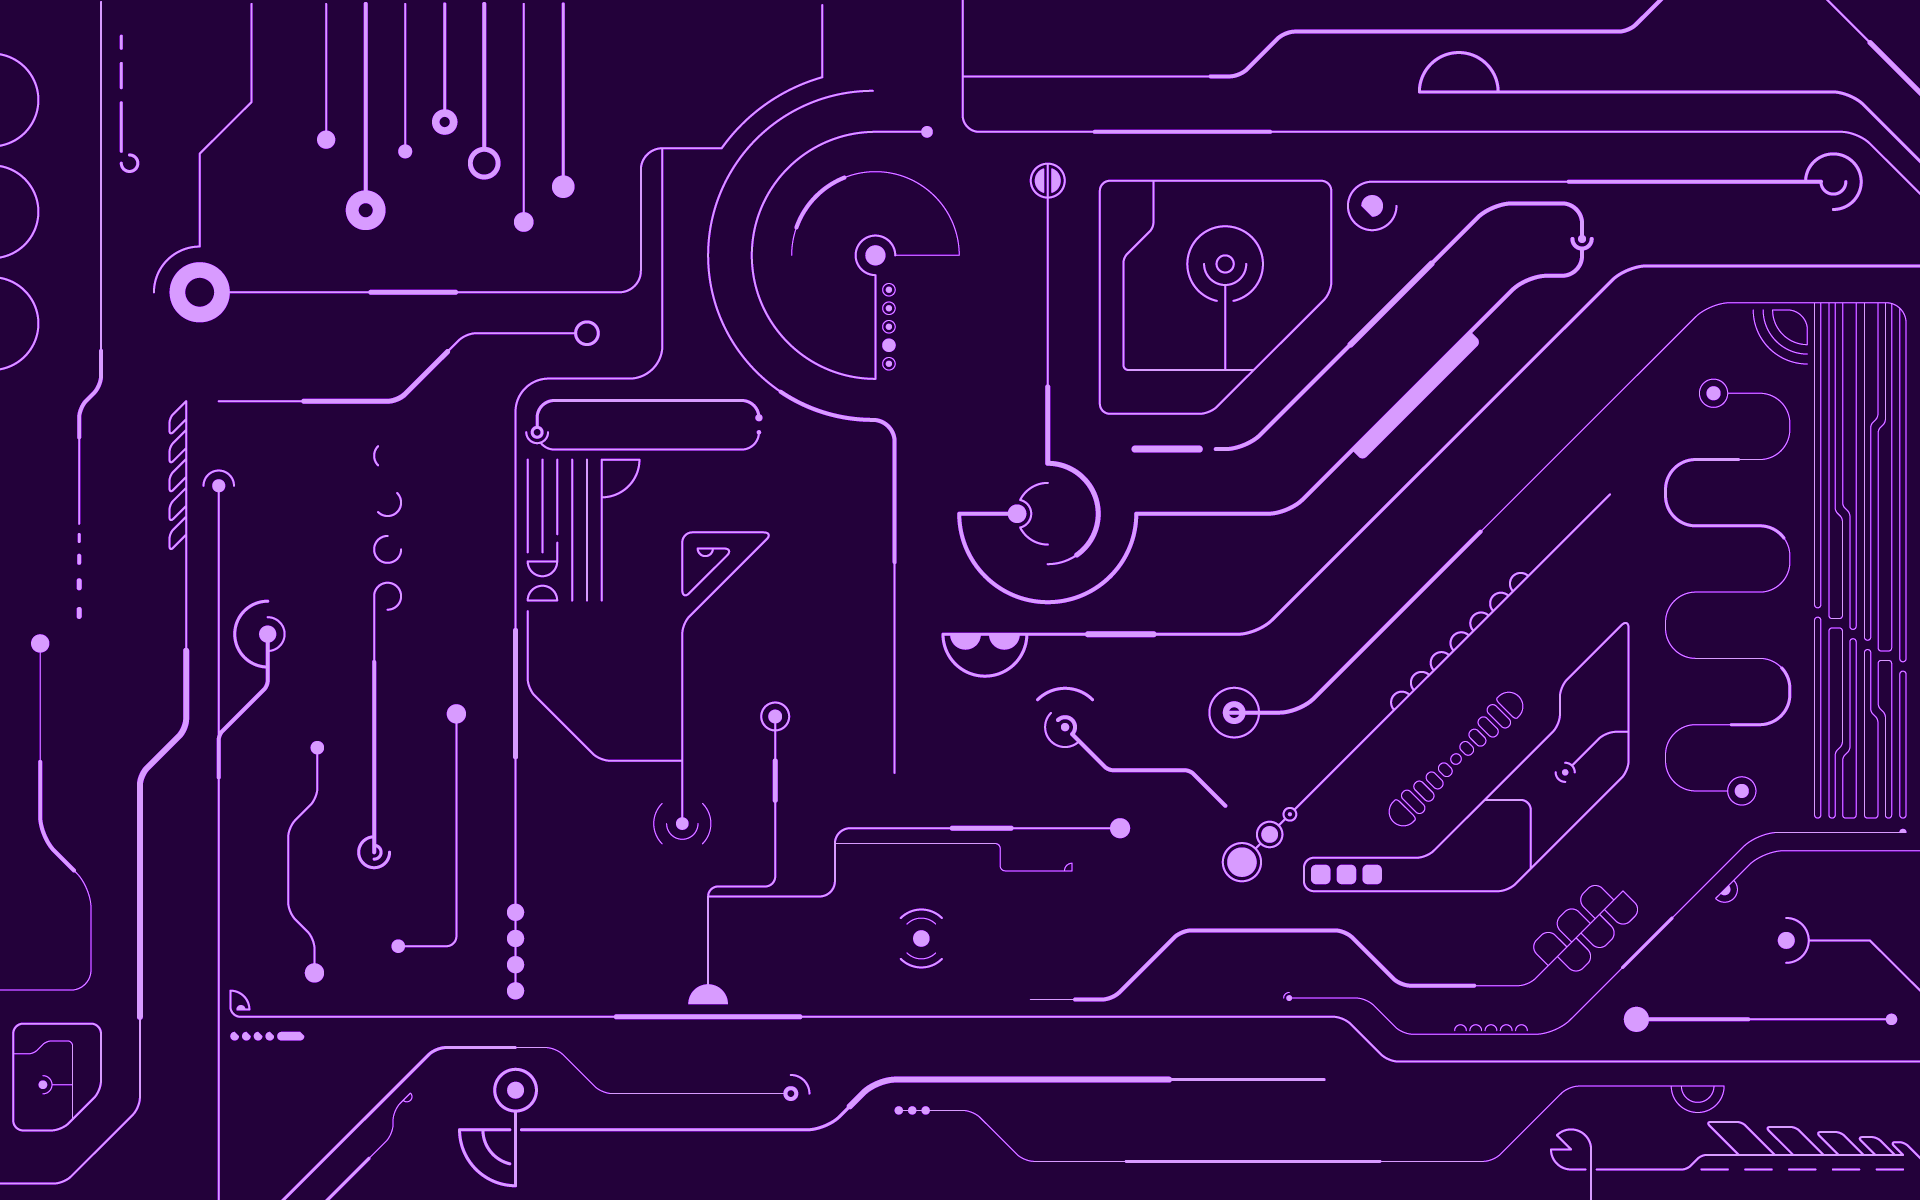
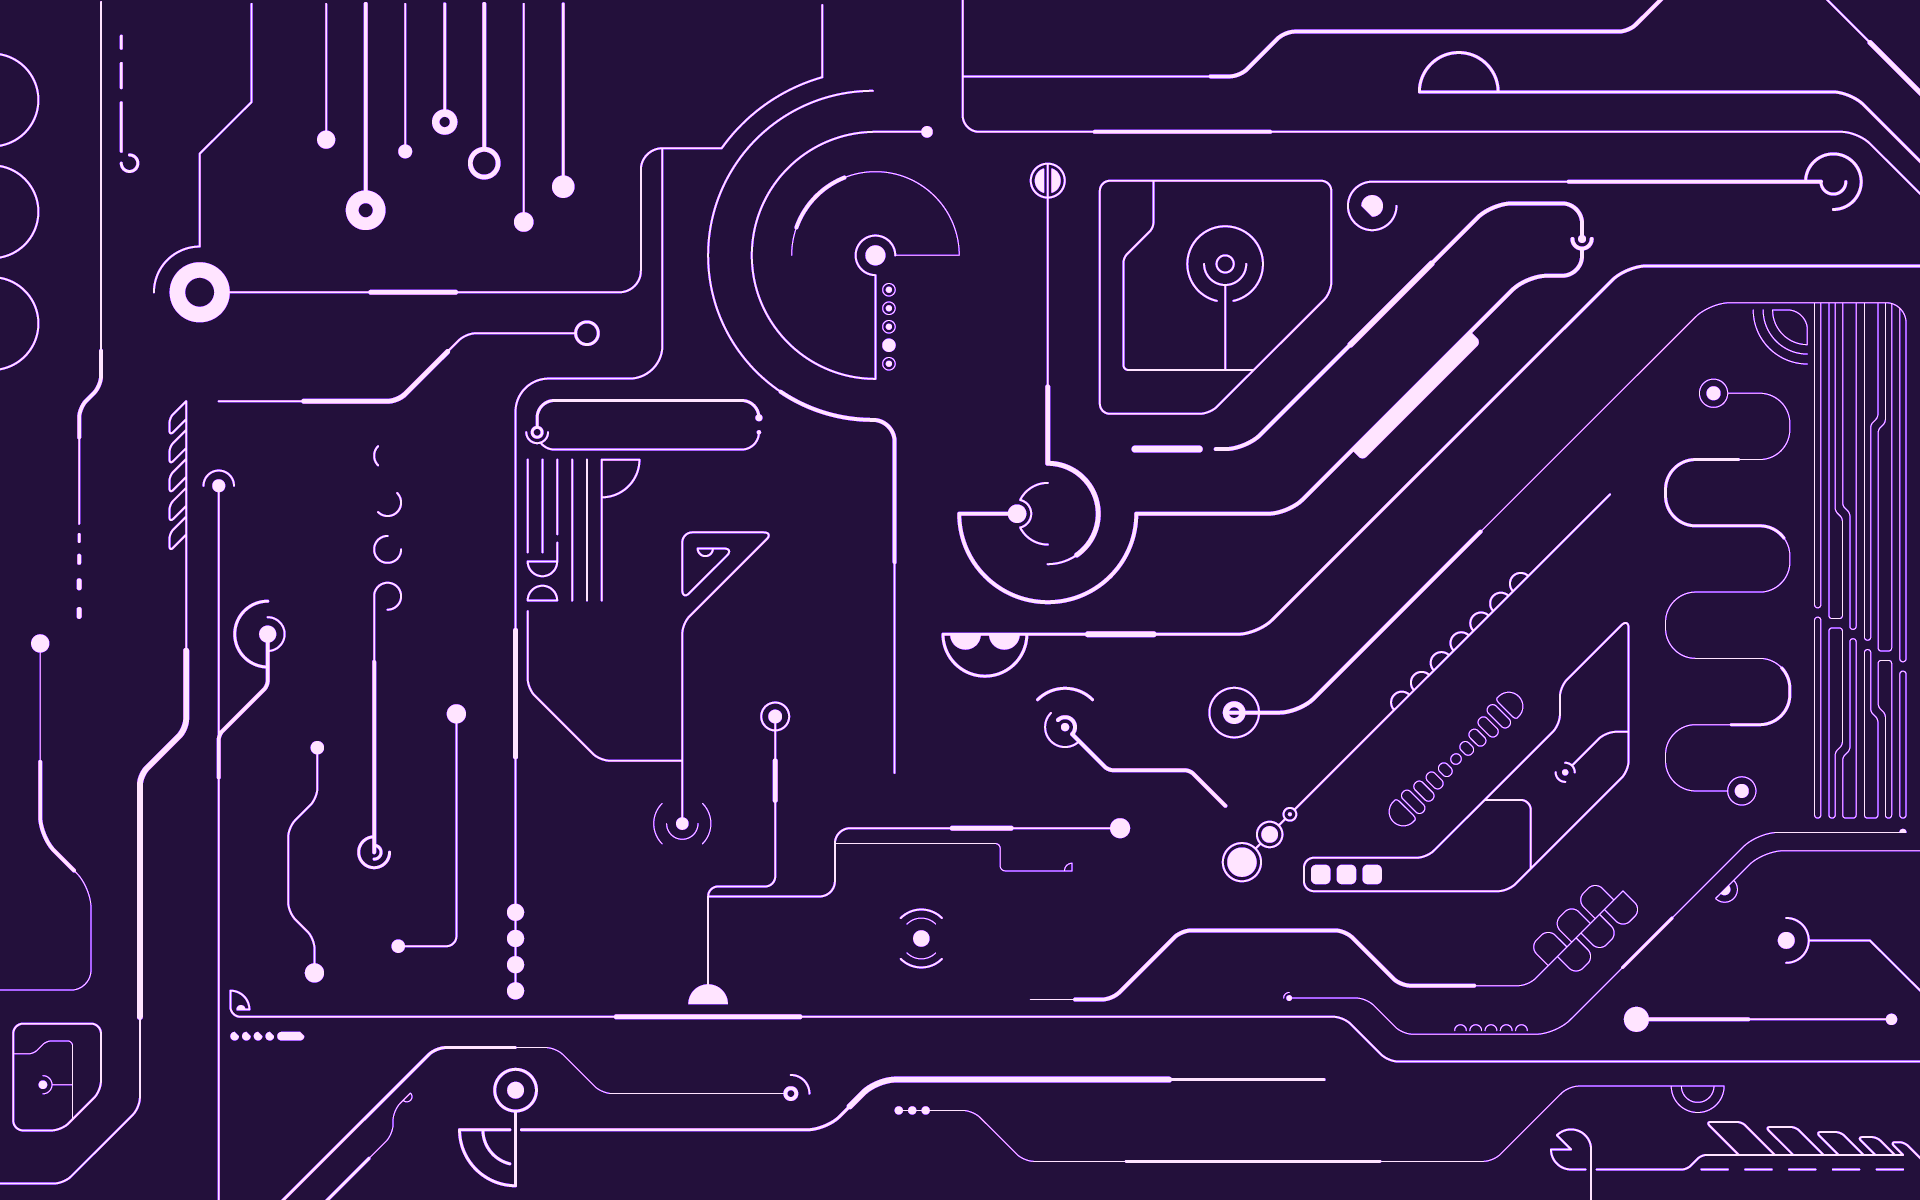
added club events section and updated swe page

diff --git a/src/components/Home.jsx b/src/components/Home.jsx
@@ -6,6 +6,8 @@ import "./Home.css"
 import { Chrono } from "react-chrono";
 import { gsap } from "gsap";
 import { ScrollTrigger } from "gsap/all";
+import {Link} from 'react-scroll'
+
 
 
 export default class Home extends React.Component {
@@ -85,6 +87,12 @@ export default class Home extends React.Component {
                     <div class="sac-state-gold mx-auto  2xl:m-96 lg:m-80 lg:mr-20 lg:ml-20 bg-transparent ">
 
                             <p class="text-green-200 font-medium text-lg p-3 lg:text-5xl lg:mt-20 lg:text-center md:text-center md:text-4xl revealUp">Engineering and Computer Science Joint Council</p>
+                            <div class=" opacity-90 text-center lg:mt-5 mt-10 mb-10 revealUp">
+                                <Link  to="Events"   smooth={true}
+                                    class="bg-transparent text-xl text-green-100  p-2 rounded-md border-2 border-green-100/90    hover:text-green-300  hover:bg-opacity-30 hover:bg-green-300  ">
+                                    Upcoming Events
+                                </Link>
+                            </div>
                         
 
                     </div>
@@ -125,12 +133,31 @@ export default class Home extends React.Component {
                                 </div>
                             </div>
                             <div class="mx-auto w-full">
-                                <div class="mx-auto text-center revealUp " >
-                                    <p class="text-green-300 lg:mt-10">Upcoming Event</p>
-                                    <img src="./ecsjcflyer2.jpeg" class=" lg:mx-auto lg:h-96 lg:mt-5 lg:rounded-md" />
+                                <div class="mx-auto text-center revealUp " id="Events">
+                                    <p class="text-green-300 lg:mt-10 text-lg p-5 lg:p-0">ECSJC Event</p>
+                                    <img src="./ecsjcflyer2.jpeg" class=" lg:mx-auto lg:h-96 lg:w-72 lg:mt-5 lg:rounded-md" />
                                 </div>
                             </div>
                         </div>
+                </section>
+                <section class="" >
+
+                    
+                    <div className="bg-transparent grid lg:grid-cols-2 bg-slate-800 opacity-90 pb-20 ">
+                            
+                    <div class="mx-auto w-full">
+                            <div class="mx-auto text-center revealUp " >
+                                    <p class="text-green-300 lg:mt-10 text-lg p-5 lg:p-0">SWE Event</p>
+                                    <img src="./spookyTreats.png" class=" lg:mx-auto lg:h-96  lg:w-72 lg:mt-5 lg:rounded-md" />
+                                </div>
+                            </div>
+                            <div class="mx-auto w-full">
+                                <div class="mx-auto text-center revealUp " >
+                                    <p class="text-green-300 lg:mt-10 text-lg p-5 lg:p-0">DSA Event</p>
+                                    <img src="./IntroToBinary.png" class=" lg:mx-auto lg:h-96 lg:w-72 lg:mt-5 lg:rounded-md" />
+                                </div>
+                            </div>
+                    </div>
                 </section>
                 
                 <div class="hidden mt-20  ml-20 mr-20 ">
@@ -194,8 +221,11 @@ export default class Home extends React.Component {
                         <a class="bg-transparent " href="https://csus.acm.org/">
                             <button class="rounded-md shadow-xl bg-green-300 hover:bg-green-400 xl:w-80 w-full opacity-80 lg:w-80 " >
                                 <p class="text-green-800 mx-auto p-3 font-semibold bg-transparent">ACM</p>
-
-
+                            </button>
+                        </a>
+                        <a class="bg-transparent">
+                            <button  class="bg-cyan-300 hover:bg-cyan-400 opacity-80 shadow-xl w-full xl:w-80 lg:w-80 rounded-md text-white" >
+                            <p class="bg-transparen text-cyan-800  p-3 font-semibold">Data Structs & Algorithms</p>
                             </button>
                         </a>
                     </div>

diff --git a/src/components/club-pages/SWEFooter.js b/src/components/club-pages/SWEFooter.js
@@ -6,7 +6,7 @@ export default class SWEFooter extends React.Component {
         return(
             <div>
               <div class="bg-indigo-100  bg-opacity-70">
-                <div class=" grid lg:grid-cols-4 grid-cols-1 ">
+                <div class=" grid lg:grid-cols-3 grid-cols-1 ">
 
                   <div class="text-center mt-20 ">
                     <div class="text-center ">
@@ -14,24 +14,20 @@ export default class SWEFooter extends React.Component {
                     </div>
                   </div>
 
-
-                  <div>
-
+                  <div class="mt-10">
+                    <img src="./sacstatelogo.png"/>
                   </div>
 
-                  <div>
-
-                  </div>
-
-                  <div class="mt-20">
-                    <div class="text-indigo-800 text-center " >
-                        <div class="text-xl">
-                          <p>Follow Us!</p>
+                  <div class="mt-20 ">
+                    <div class="text-indigo-800 text-center lg:pl-20 " >
+                        <div class="text-xl lg:text-left">
+                          <p>Contact Us</p>
+                        <a><p>swe.sacstate@gmail.com</p></a>
                         <a href="https://instagram.com/swe_sacstate?igshid=MDE2OWE1N2Q=" target="_blank">
-                          <BsInstagram class="inline-block hover:text-indigo-600  m-5"/>
+                          <BsInstagram class="inline-block hover:text-indigo-600  m-2 text-2xl"/>
                         </a>
                         <a href="https://discord.gg/tCDUGFaZSG" target="_blank">
-                          <BsDiscord class="inline-block hover:text-indigo-600 m-5"/>
+                          <BsDiscord class="inline-block hover:text-indigo-600 m-2 text-2xl"/>
                         </a>
                         </div>
                     </div>

diff --git a/src/components/club-pages/Swe.js b/src/components/club-pages/Swe.js
@@ -3,6 +3,8 @@ import NavBarSWE from "../NavBarSWE";
 import { gsap } from "gsap";
 import { ScrollTrigger } from "gsap/all";
 import SWEFooter from "./SWEFooter";
+import { BsInstagram,BsDiscord } from "react-icons/bs";
+
 
 export default class Swe extends React.Component {
     componentDidMount() {
@@ -59,7 +61,7 @@ export default class Swe extends React.Component {
         
         return(
             <div class="">
-                <div class="m-0 w-full h-full bg-cover opacity-90 bg-transparent border-2 border-transparent <----???" style={{backgroundImage:"url('./swecircuit.png')"}}>
+                <div class="m-0 w-full h-full bg-cover  bg-transparent border-2 border-transparent <----???" style={{backgroundImage:"url('./swecircuit.png')"}}>
                     
     
                     <NavBarSWE class="bg-transparent "/>
@@ -94,6 +96,12 @@ export default class Swe extends React.Component {
                                
                                 <p class="bg-transparent text-indigo-300 mt-5 ">
                                 Club Email: swe.sacstate@gmail.com</p>
+                                <a href="https://instagram.com/swe_sacstate?igshid=MDE2OWE1N2Q=" target="_blank">
+                                    <BsInstagram class="inline-block hover:text-indigo-600 text-indigo-300 text-2xl m-2"/>
+                                </a>
+                                <a href="https://discord.gg/tCDUGFaZSG" target="_blank">
+                                    <BsDiscord class="inline-block hover:text-indigo-600 text-indigo-300  text-2xl m-2"/>
+                                </a>
                                
                             
 

diff --git a/src/components/NavBarSWE.js b/src/components/NavBarSWE.js
@@ -8,7 +8,7 @@ export default class NavBarSWE extends React.Component {
     render() {
         return(
             <div class="container lg:mx-auto  bg-transparent">
-            <nav class="flex justify-between bg-transparent pb-6 flex-wrap  text-indigo-300 lg:m-30 pt-6" >
+            <nav class="flex justify-between bg-transparent pb-6 flex-wrap   lg:m-30 pt-6" >
                     <a  
                         href="/" class="text-green-300 font-semibold text-3xl bg-transparent tracking-tight 
                         hover:underline underline-offset-4 ">
@@ -19,9 +19,9 @@ export default class NavBarSWE extends React.Component {
                             Events
                         </Link>
        
-                        <Link  to="Follow Us" spy={true} smooth={true}
+                        <Link  to="Contact Us" spy={true} smooth={true}
                             class="bg-transparent text-xl block mt-4 p-2 rounded-md lg:inline-block hover:text-purple-300 md:inline-block hover:bg-opacity-30 hover:bg-purple-300 lg:mt-0 text-indigo-100">
-                            Follow Us
+                            Contact Us
                         </Link>
 
                         
